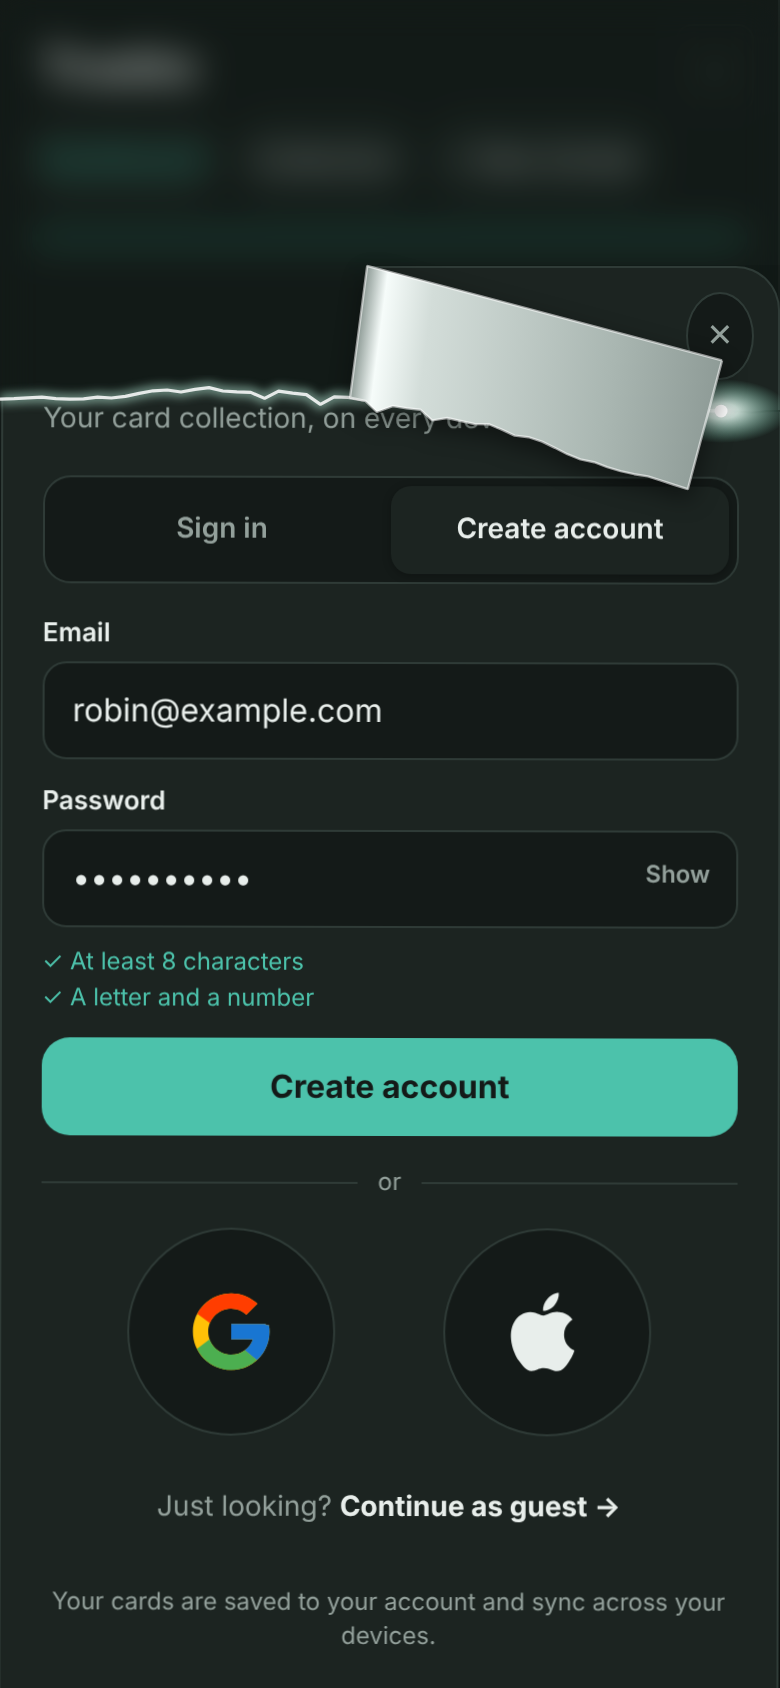
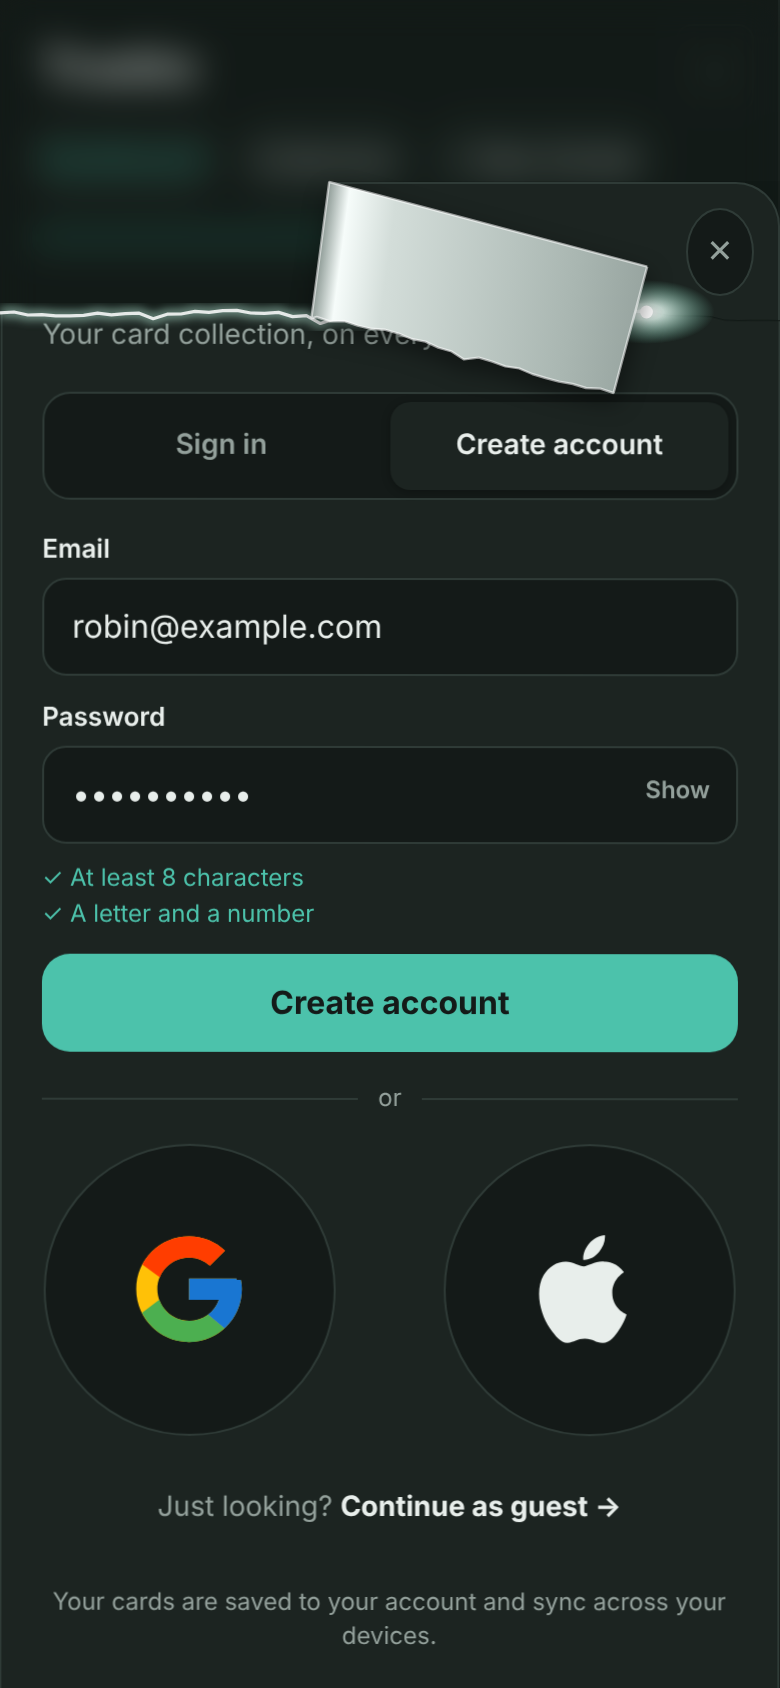
Grow the Google and Apple circles to fill the row
Claude-Session: https://claude.ai/code/session_01K6ofJxh6QarDQ2gKnJ83gJ

diff --git a/js/account.js b/js/account.js
@@ -130,10 +130,10 @@ const css=`#txa{position:fixed;inset:0;z-index:100000;display:flex;align-items:c
 #txa .go:disabled{opacity:.7;cursor:wait}
 #txa .go2{width:100%;padding:12px;border-radius:14px;border:1px solid var(--line);background:var(--bg);color:inherit;font-family:inherit;font-weight:600;font-size:15px;cursor:pointer;margin:8px 0 0;display:flex;align-items:center;justify-content:center;gap:10px}
 #txa .go2 svg{width:18px;height:18px}
-#txa .oauth{display:flex;justify-content:center;gap:54px;margin:8px 0 6px}
-#txa .circ{width:104px;height:104px;border-radius:50%;border:1px solid var(--line);background:var(--bg);color:inherit;display:grid;place-items:center;padding:0;margin:0;cursor:pointer;transition:transform .15s,border-color .15s}
+#txa .oauth{display:flex;justify-content:center;gap:54px;margin:10px 0 8px}
+#txa .circ{width:min(146px,calc((100% - 54px) / 2));height:auto;aspect-ratio:1;border-radius:50%;border:1px solid var(--line);background:var(--bg);color:inherit;display:grid;place-items:center;padding:0;margin:0;cursor:pointer;transition:transform .15s,border-color .15s}
 #txa .circ:hover{border-color:var(--acc);transform:translateY(-1px)}#txa .circ:focus-visible{outline:none;box-shadow:0 0 0 3px color-mix(in srgb,var(--acc) 35%,transparent)}
-#txa .circ svg{width:46px;height:46px}
+#txa .circ svg{width:44%;height:44%}
 #txv{position:fixed;left:50%;bottom:calc(16px + env(safe-area-inset-bottom,0px));transform:translateX(-50%);z-index:9000;display:flex;align-items:center;gap:10px;max-width:calc(100% - 24px);box-sizing:border-box;
  padding:10px 10px 10px 16px;border-radius:14px;background:var(--panel);border:1px solid var(--line);color:var(--ink);font-size:14px;box-shadow:0 10px 30px rgba(0,0,0,.35)}
 @media(max-width:520px){#txv{width:calc(100% - 24px);font-size:13px}}#txv span{overflow-wrap:anywhere}
